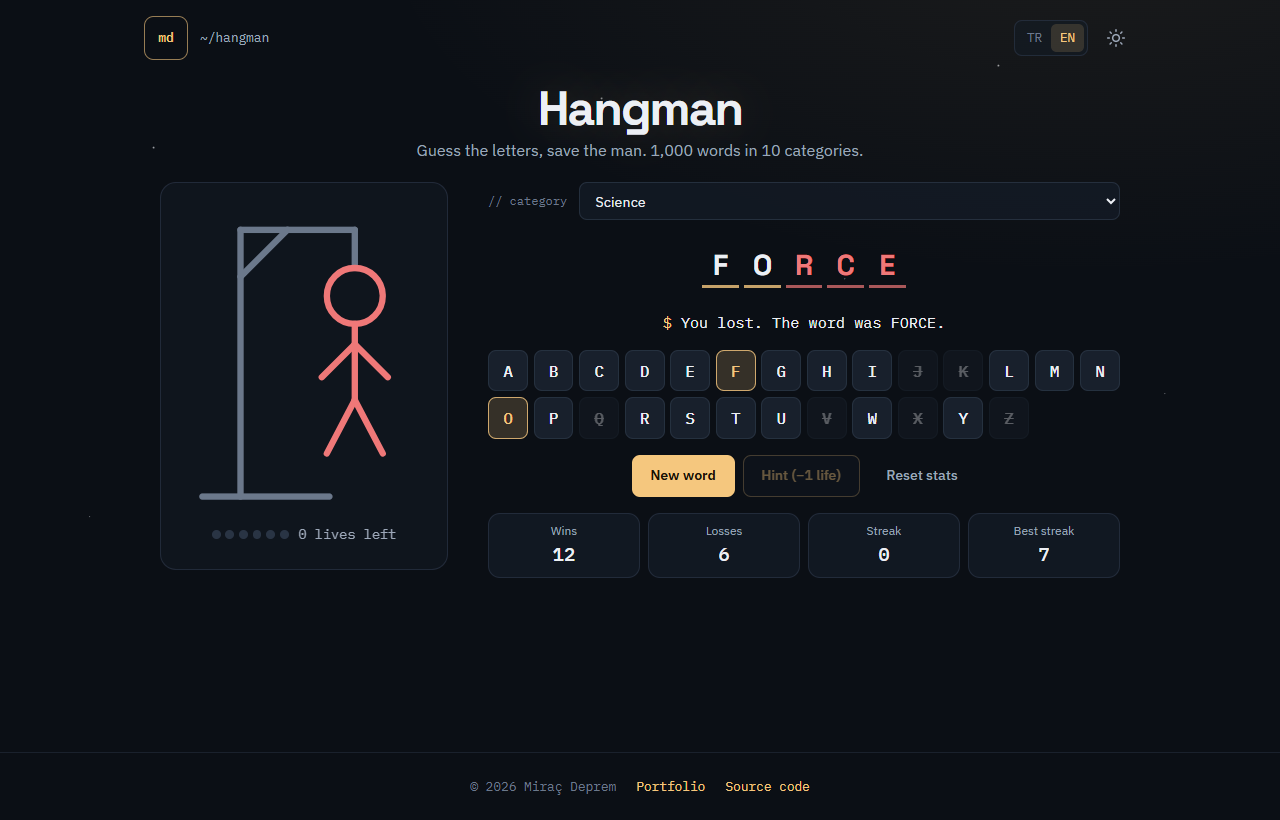
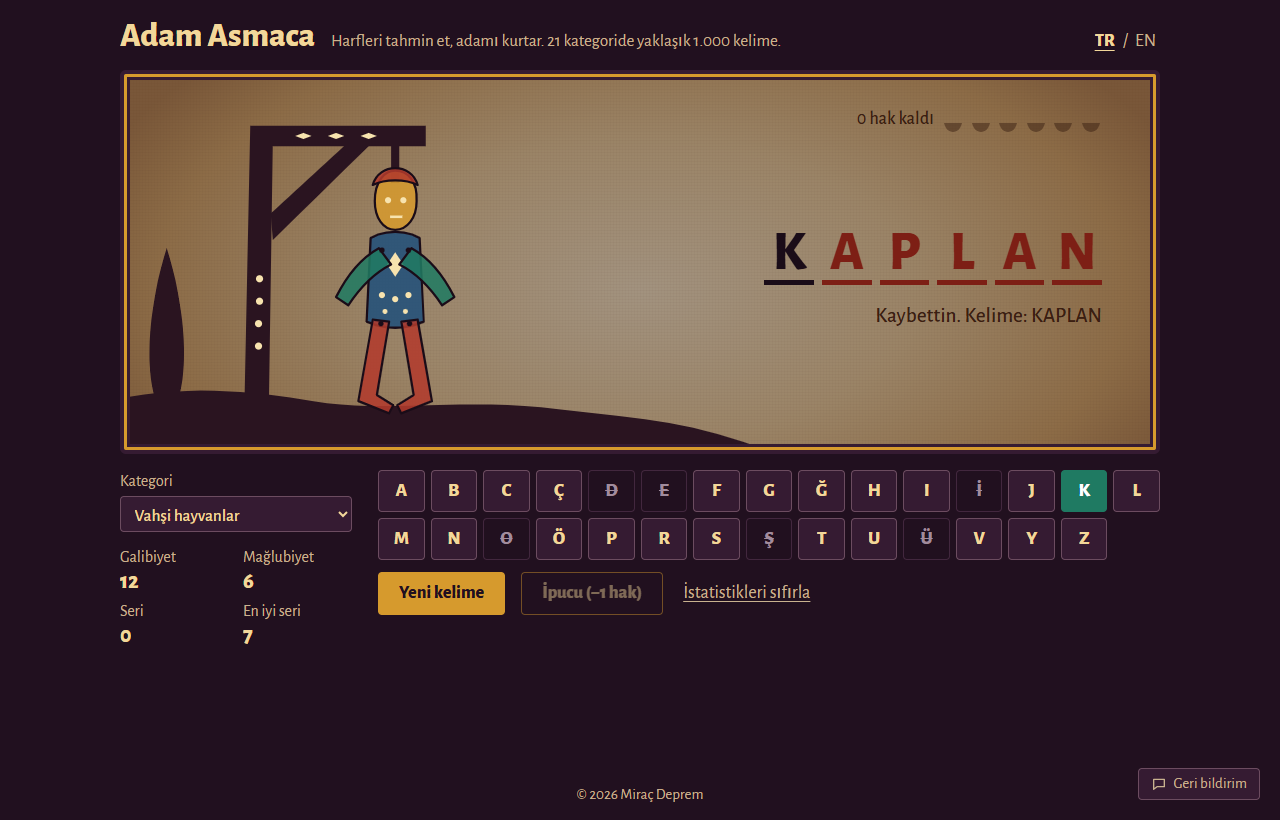
docs(readme): update for the shadow theatre design

diff --git a/README.tr.md b/README.tr.md
@@ -2,11 +2,11 @@
 
 [English](README.md) | **Türkçe**
 
-Sade HTML, CSS ve JavaScript ile yazılmış bir adam asmaca oyunu. Gizli kelimeyi, adam tamamen çizilmeden harf harf tahmin et. 21 dar kategoride yaklaşık 1.000 Türkçe ve 1.000 İngilizce kelime var; neyi tahmin ettiğini her zaman bilirsin.
+Sade HTML, CSS ve JavaScript ile yazılmış bir adam asmaca oyunu. Gizli kelimeyi, figür tamamlanmadan harf harf tahmin et. 21 dar kategoride yaklaşık 1.000 Türkçe ve 1.000 İngilizce kelime var; neyi tahmin ettiğini her zaman bilirsin.
 
 **Canlı demo:** [hangman.miracdeprem.com](https://hangman.miracdeprem.com)
 
-![İpucu kullanılmış İngilizce bir oyun](docs/screenshot-play.png)
+![Perdede süren Türkçe bir oyun](docs/screenshot-play.png)
 
 ## Özellikler
 
@@ -15,7 +15,7 @@ Sade HTML, CSS ve JavaScript ile yazılmış bir adam asmaca oyunu. Gizli kelime
   - Ekrandaki klavyeyle ya da kendi klavyenle tahmin edersin.
   - Alfabe dile göre değişir: Türkçede 29 harf (ç, ğ, ı, ö, ş, ü), İngilizcede 26 harf var.
   - Türkçe büyük-küçük harf kuralları doğru işlenir: Caps Lock açıkken `I` harfi `ı`, `İ` harfi `i` sayılır.
-- **6 hak:** Her yanlış tahminde adamın bir parçası çizilir. Aynı harfi tekrar basmak, rakam ya da Ctrl+R gibi kısayollar hak götürmez.
+- **6 hak:** Her yanlış tahminde figürün sıradaki parçası perdeye gelir. Aynı harfi tekrar basmak, rakam ya da Ctrl+R gibi kısayollar hak götürmez.
 - **Zor kelimeler için yardım**
   - **İpucu butonu:** Bir hak karşılığında gizli bir harf açar, kelime başına bir kez kullanılır. Son hakta ve tek harf kaldığında kilitlenir.
   - **Her kelime** bazı harfleri açık başlar (3-6 harf: 1, 7-10: 2, 11 ve üstü: 3); en az iki farklı harf her zaman gizli kalır.
@@ -26,20 +26,21 @@ Sade HTML, CSS ve JavaScript ile yazılmış bir adam asmaca oyunu. Gizli kelime
   - Ekran okuyucu kelimenin durumunu ("Kelime, 5 harf: C, R, A, boş, boş") ve her tuşun durumunu okur.
   - Sistemdeki "hareketi azalt" ayarına uyar.
 - **Her kategorinin kendi adresi:** örneğin [/kuslar](https://hangman.miracdeprem.com/kuslar) ya da [/meslekler](https://hangman.miracdeprem.com/meslekler) oyunu o kategoride açar; Türkçe ya da İngilizce (`?lang=en`).
-- **Türkçe ve İngilizce**, [portfolyo sitemle](https://www.miracdeprem.com) uyumlu **koyu ve açık tema**.
+- **Türkçe ve İngilizce.**
+- **Gölge oyunu:** Oyun arkadan aydınlanan bir perdede oynanır. Her yanlış harfte figürün sıradaki parçası perdeye yaklaşır ve gölgesi keskinleşir, altı kandilden biri söner; kaybedince ışık kısılır.
 - **Duyarlı tasarım:** Masaüstünde iki sütun, telefonda tek sütun; uzun kelimeler her zaman tek satırda kalır.
 - **Geri bildirim:** Küçük bir düğme; ad (isteğe bağlı), e-posta ya da telefon ve mesaj içeren formu açar. Mesaj portfolyo sitem üzerinden doğrudan bana ulaşır.
 
 ## Ekran Görüntüleri
 
-| Kazanma, açık tema (Türkçe) | Kaybetme | Telefon |
+| Kazanma | Kaybetme | Telefon |
 |---|---|---|
-| ![Açık temada kazanılmış Türkçe bir tur](docs/screenshot-light.png) | ![Kelimeyi gösteren kaybetme ekranı](docs/screenshot-lost.png) | ![Uzun kelimeyle telefon görünümü](docs/screenshot-mobile.png) |
+| ![Işığı açılmış perdede kazanılmış Türkçe bir tur](docs/screenshot-won.png) | ![Kelimeyi gösteren kaybetme ekranı](docs/screenshot-lost.png) | ![Uzun kelimeyle telefon görünümü](docs/screenshot-mobile.png) |
 
 ## Kullanılan Teknolojiler
 
 - HTML, CSS, JavaScript (ES modülleri, framework yok, derleme adımı yok)
-- Node.js'in yerleşik test aracı (`node --test`), 21 birim testi
+- Node.js'in yerleşik test aracı (`node --test`), 34 birim testi
 - Yayın: Vercel, güvenlik başlıklarıyla (Content Security Policy)
 
 ## Kurulum ve Çalıştırma
@@ -69,8 +70,6 @@ src/game.js         Oyun kuralları: tahmin, hak, ipucu, kazanma ve kaybetme
 src/words.js        Kelime listelerini yükler ve doğrular, tekrarsız kelime seçer
 src/storage.js      Ayarlar ve istatistikler (localStorage, doğrulamalı)
 src/i18n.js         Türkçe ve İngilizce metinler
-src/theme.js        Tema değiştirme
-src/theme-init.js   Kayıtlı temayı sayfa çizilmeden önce uygular
 src/main.js         Hepsini sayfaya bağlar
 tests/              Kurallar, kelime listeleri ve kayıt için birim testleri
 ```
@@ -83,7 +82,7 @@ tests/              Kurallar, kelime listeleri ve kayıt için birim testleri
 - **Adil karıştırma.** Kelimeler Fisher-Yates karıştırmasıyla hazırlanan bir "torbadan" çekiliyor. Her sıralama eşit olasılıkla çıkıyor ve torba boşalmadan hiçbir kelime tekrar gelmiyor. Torba bir closure'ın içinde duruyor, dışarıdan değiştirilemiyor.
 - **Her değişiklik için tek yol.** Tahmin de ipucu da yeni bir oyun durumu döndürüyor. İstatistik kaydını ve ekranı çizmeyi tek bir `update` fonksiyonu yapıyor. Fonksiyonları parametre olarak geçirmek (`update(useHint)`) bu kodu tek yerde tuttu.
 - **Yarış durumu (race condition).** Kelimeler yüklenirken oyuncu dil değiştirirse eski istek yeni oyunun üstüne yazmamalı. `await` sonrasında ayarları yeniden kontrol ederek bunu çözdüm.
-- **SVG ve CSS ile çizim.** Adamın her parçası `pathLength="1"` verilmiş bir SVG çizgisi. Böylece tek bir CSS geçişi, gerçek uzunluğu ne olursa olsun her parçayı aynı şekilde "çiziyor".
+- **CSS ile gölge.** Figürün her parçası soluk, bulanık ve biraz büyük başlayan bir SVG grubu. `filter` ve `transform` üzerindeki tek bir CSS geçişi onu netleştiriyor; tasvir perdeye yaklaşınca gölgenin keskinleşmesi gibi.
 - **İçeriğe göre boyutlandırma.** Harf kutuları CSS container birimleri ve bir `--letters` değişkeniyle boyutlanıyor. 14 harflik bir kelime küçük bir telefonda bile tek satıra sığıyor.
 
 ## Lisans

diff --git a/README.md b/README.md
@@ -2,11 +2,11 @@
 
 **English** | [Türkçe](README.tr.md)
 
-A hangman word game in plain HTML, CSS and JavaScript. Guess the hidden word letter by letter before the man is drawn. It has about 1,000 Turkish and 1,000 English words in 21 narrow categories, so you always know what you are guessing.
+A hangman word game in plain HTML, CSS and JavaScript. Guess the hidden word letter by letter before the figure is complete. It has about 1,000 Turkish and 1,000 English words in 21 narrow categories, so you always know what you are guessing.
 
 **Live demo:** [hangman.miracdeprem.com](https://hangman.miracdeprem.com)
 
-![Playing in English with a hint used](docs/screenshot-play.png)
+![A Turkish game in progress on the shadow screen](docs/screenshot-play.png)
 
 ## Features
 
@@ -15,7 +15,7 @@ A hangman word game in plain HTML, CSS and JavaScript. Guess the hidden word let
   - Use the on-screen keyboard or your own keyboard.
   - The alphabet follows the language: Turkish has 29 letters (ç, ğ, ı, ö, ş, ü), English has 26.
   - Turkish case rules are handled: with Caps Lock on, `I` counts as `ı` and `İ` as `i`.
-- **Six lives:** each wrong guess draws a part of the man. Repeated letters, numbers and shortcuts like Ctrl+R never cost a life.
+- **Six lives:** on every wrong guess, the next part of the figure comes to the screen. Repeated letters, numbers and shortcuts like Ctrl+R never cost a life.
 - **Help for hard words**
   - **Hint button:** reveals one hidden letter for a life, once per word. It is locked on the last life and when only one letter is left.
   - **Every word** starts with letters revealed (3–6 letters: 1, 7–10: 2, 11 or more: 3); at least two different letters always stay hidden.
@@ -26,20 +26,21 @@ A hangman word game in plain HTML, CSS and JavaScript. Guess the hidden word let
   - Screen readers hear the word pattern ("Word, 5 letters: C, R, A, blank, blank") and each key's state.
   - Respects the "reduce motion" system setting.
 - **An address for every category:** for example [/kuslar](https://hangman.miracdeprem.com/kuslar) or [/meslekler](https://hangman.miracdeprem.com/meslekler) opens the game in that category, in Turkish or English (`?lang=en`).
-- **Turkish and English**, with a **dark and light theme** that match my [portfolio](https://www.miracdeprem.com).
+- **Turkish and English.**
+- **A shadow theatre:** the game plays on a backlit screen. On every wrong letter the next piece of the figure moves closer and its shadow sharpens, one of six oil lamps goes out, and the light dims when you lose.
 - **Responsive:** two columns on desktop, one column on phones; long words always stay on one line.
 - **Feedback:** a small button opens a form (name optional, email or phone, message) that sends straight to me through my portfolio site.
 
 ## Screenshots
 
-| Win, light theme (Turkish) | Lose | Phone |
+| Win | Lose | Phone |
 |---|---|---|
-| ![Won round in Turkish with the light theme](docs/screenshot-light.png) | ![Lost round showing the word](docs/screenshot-lost.png) | ![Phone layout with a long word](docs/screenshot-mobile.png) |
+| ![Won round in Turkish on a brightly lit screen](docs/screenshot-won.png) | ![Lost round showing the word](docs/screenshot-lost.png) | ![Phone layout with a long word](docs/screenshot-mobile.png) |
 
 ## Tech Stack
 
 - HTML, CSS, JavaScript (ES modules, no framework, no build step)
-- Node.js built-in test runner (`node --test`), 21 unit tests
+- Node.js built-in test runner (`node --test`), 34 unit tests
 - Hosted on Vercel, with security headers (Content Security Policy)
 
 ## Installation
@@ -69,8 +70,6 @@ src/game.js         Game rules: guesses, lives, hint, win and loss
 src/words.js        Loads and validates the word lists, picks words without repeats
 src/storage.js      Settings and stats in localStorage, with validation
 src/i18n.js         Turkish and English texts
-src/theme.js        Theme switching
-src/theme-init.js   Applies the saved theme before the first paint
 src/main.js         Connects everything to the page
 tests/              Unit tests for rules, word lists and storage
 ```
@@ -83,7 +82,7 @@ tests/              Unit tests for rules, word lists and storage
 - **A fair shuffle.** Words come from a shuffled "bag" built with the Fisher–Yates shuffle, so every order is equally likely and no word repeats until the bag is empty. The bag lives inside a closure, so nothing outside can change it.
 - **One path for every change.** A guess and a hint both return a new game state, and one `update` function takes care of saving stats and drawing the page. Passing functions around (`update(useHint)`) kept that code in one place.
 - **Race conditions.** If the player switches language while words are still loading, the old request must not overwrite the new game. Checking the settings again after `await` fixed that.
-- **Drawing with SVG and CSS.** Each part of the man is an SVG line with `pathLength="1"`, so one CSS transition "draws" every part the same way, whatever its real length.
+- **A shadow with CSS.** Each part of the figure is an SVG group that starts faint, blurred and slightly larger. One CSS transition on `filter` and `transform` brings it into focus, the way a shadow sharpens when a puppet moves toward the screen.
 - **Sizing from content.** Letter boxes use CSS container units and a `--letters` variable, so a 14-letter word fits on one line even on a small phone.
 
 ## License
